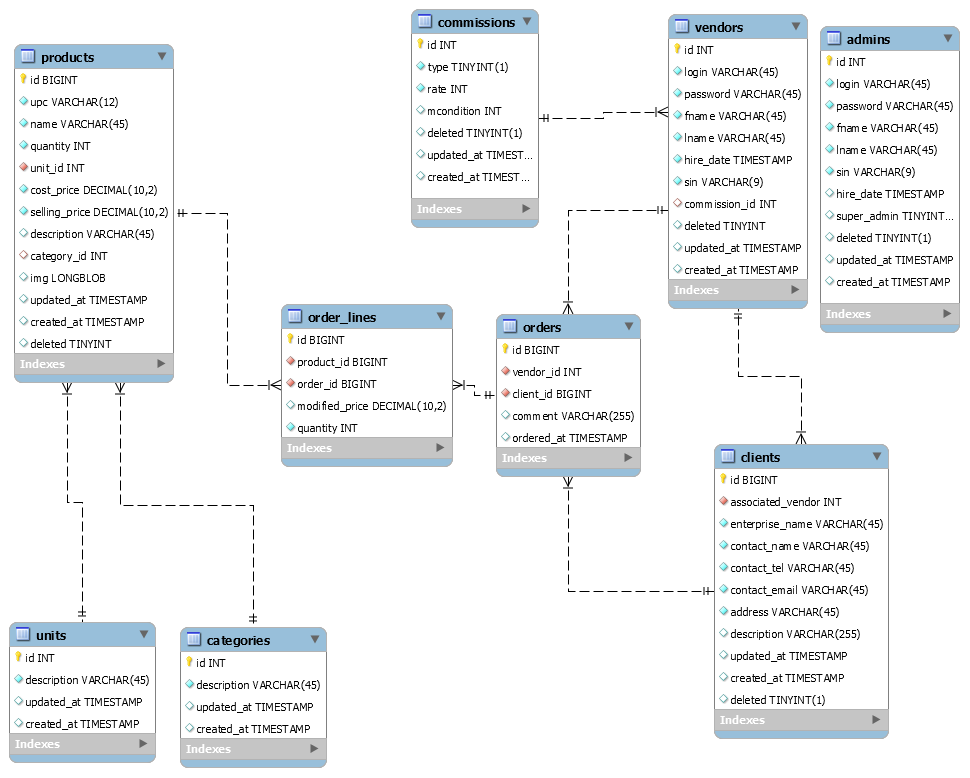
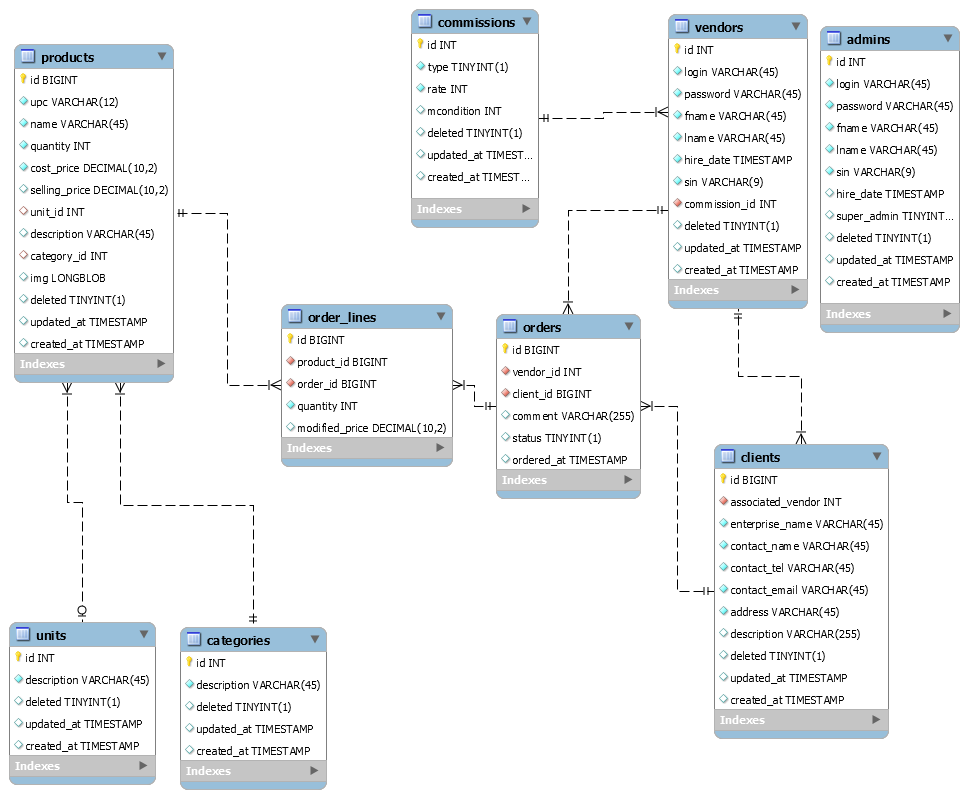
Modified db due to new client demands!

diff --git a/src/com/devsolutions/camelus/mappers/OrderMapper.java b/src/com/devsolutions/camelus/mappers/OrderMapper.java
@@ -5,6 +5,7 @@ import java.util.List;
 import org.apache.ibatis.annotations.Insert;
 import org.apache.ibatis.annotations.Options;
 import org.apache.ibatis.annotations.Select;
+import org.apache.ibatis.annotations.Update;
 
 import com.devsolutions.camelus.entities.Order;
 import com.devsolutions.camelus.entities.OrderTV;
@@ -14,17 +15,12 @@ public interface OrderMapper {
 	@Select("SELECT * FROM orders")
 	List<Order> getAll();
 
-	/*
-	 * @Select("SELECT * FROM orders WHERE vendor_id = #{vendor_id}")
-	 * List<Order> getByVendorId(int vendor_id);
-	 */
-
 	@Select("SELECT orders.id, client_id, associated_vendor, commission_id, fname, lname, enterprise_name, comment, ordered_at "
 			+ "FROM vendors INNER JOIN orders ON  vendors.id = orders.vendor_id"
 			+ "     INNER JOIN clients ON orders.client_id = clients.id"
 			+ " WHERE vendor_id = #{vendor_id}")
 	List<OrderTV> getByVendorId(int vendor_id);
-	
+
 	@Select("SELECT orders.id, client_id, associated_vendor, commission_id, fname, lname, enterprise_name, comment, ordered_at "
 			+ "FROM vendors INNER JOIN orders ON  vendors.id = orders.vendor_id"
 			+ "     INNER JOIN clients ON orders.client_id = clients.id")
@@ -39,4 +35,8 @@ public interface OrderMapper {
 	@Insert("INSERT INTO orders (vendor_id,client_id,comment) VALUES (#{vendor_id},#{client_id},#{comment})")
 	@Options(useGeneratedKeys = true, keyColumn = "id", keyProperty = "id", flushCache = true)
 	void add(Order order);
+
+	@Update("UPDATE orders SET status = 1 WHERE id = #{id}")
+	@Options(flushCache = true)
+	void cancel(long id);
 }

diff --git a/src/com/devsolutions/camelus/mappers/CategoryMapper.java b/src/com/devsolutions/camelus/mappers/CategoryMapper.java
@@ -5,18 +5,23 @@ import java.util.List;
 import org.apache.ibatis.annotations.Insert;
 import org.apache.ibatis.annotations.Options;
 import org.apache.ibatis.annotations.Select;
+import org.apache.ibatis.annotations.Update;
 
 import com.devsolutions.camelus.entities.Category;
 
 public interface CategoryMapper {
 
-	@Select("SELECT * FROM categories")
+	@Select("SELECT * FROM categories WHERE deleted = 0")
 	List<Category> getAll();
 
-	@Select("SELECT * FROM categories WHERE id = #{id}")
+	@Select("SELECT * FROM categories WHERE id = #{id} AND  deleted = 0")
 	Category getById(int id);
 
 	@Insert("INSERT INTO categories (description) VALUE (#{description})")
 	@Options(flushCache = true)
 	void add(String description);
+
+	@Update("UPDATE categories SET deleted = 1 WHERE id = #{id}")
+	@Options(flushCache = true)
+	void delete(int id);
 }

diff --git a/src/com/devsolutions/camelus/mappers/CommissionMapper.java b/src/com/devsolutions/camelus/mappers/CommissionMapper.java
@@ -5,6 +5,7 @@ import java.util.List;
 import org.apache.ibatis.annotations.Insert;
 import org.apache.ibatis.annotations.Options;
 import org.apache.ibatis.annotations.Select;
+import org.apache.ibatis.annotations.Update;
 
 import com.devsolutions.camelus.entities.Commission;
 
@@ -14,10 +15,14 @@ public interface CommissionMapper {
 	@Options(flushCache = true)
 	void add(Commission commission);
 
-	@Select("SELECT * FROM commissions")
+	@Select("SELECT * FROM commissions WHERE deleted = 0")
 	List<Commission> getAll();
-	
-	@Select("SELECT * FROM commissions WHERE id = #{id}")
+
+	@Select("SELECT * FROM commissions WHERE id = #{id} AND deleted = 0")
 	Commission getById(int id);
+
+	@Update("UPDATE commissions SET deleted = 1 WHERE id = #{id}")
+	@Options(flushCache = true)
+	void delete(int id);
 
 }

diff --git a/src/com/devsolutions/camelus/mappers/UnitMapper.java b/src/com/devsolutions/camelus/mappers/UnitMapper.java
@@ -5,19 +5,24 @@ import java.util.List;
 import org.apache.ibatis.annotations.Insert;
 import org.apache.ibatis.annotations.Options;
 import org.apache.ibatis.annotations.Select;
+import org.apache.ibatis.annotations.Update;
 
 import com.devsolutions.camelus.entities.Unit;
 
 public interface UnitMapper {
 
-	@Select("SELECT * FROM units")
+	@Select("SELECT * FROM units WHERE deleted = 0")
 	List<Unit> getAll();
-	
-	@Select("SELECT * FROM units WHERE id = #{id}")
+
+	@Select("SELECT * FROM units WHERE id = #{id} AND deleted = 0")
 	Unit getById(int id);
 
 	@Insert("INSERT INTO units (description) VALUE (#{description})")
 	@Options(flushCache = true)
 	void add(String description);
+
+	@Update("UPDATE units SET deleted = 1 WHERE id = #{id}")
+	@Options(flushCache = true)
+	void delete(int id);
 
 }

diff --git a/src/com/devsolutions/camelus/managers/OrderManager.java b/src/com/devsolutions/camelus/managers/OrderManager.java
@@ -32,11 +32,10 @@ public class OrderManager {
 		session.close();
 		return orders;
 	}
-	
+
 	public static List<OrderTV> getAllTV() {
 		SqlSession session = DBConnection.getSqlSessionFactory().openSession();
-		List<OrderTV> orders = session.getMapper(OrderMapper.class)
-				.getAllTV();
+		List<OrderTV> orders = session.getMapper(OrderMapper.class).getAllTV();
 		session.close();
 		return orders;
 	}
@@ -54,5 +53,12 @@ public class OrderManager {
 		Order order = session.getMapper(OrderMapper.class).getById(id);
 		session.close();
 		return order;
+	}
+
+	public static void cancel(long id) {
+		SqlSession session = DBConnection.getSqlSessionFactory().openSession();
+		session.getMapper(OrderMapper.class).cancel(id);
+		session.commit();
+		session.close();
 	}
 }

diff --git a/src/com/devsolutions/camelus/managers/UnitManager.java b/src/com/devsolutions/camelus/managers/UnitManager.java
@@ -16,7 +16,7 @@ public class UnitManager {
 		session.close();
 		return units;
 	}
-	
+
 	public static Unit getById(int id) {
 		SqlSession session = DBConnection.getSqlSessionFactory().openSession();
 		Unit unit = session.getMapper(UnitMapper.class).getById(id);
@@ -27,6 +27,13 @@ public class UnitManager {
 	public static void add(String description) {
 		SqlSession session = DBConnection.getSqlSessionFactory().openSession();
 		session.getMapper(UnitMapper.class).add(description);
+		session.commit();
+		session.close();
+	}
+
+	public static void delete(int id) {
+		SqlSession session = DBConnection.getSqlSessionFactory().openSession();
+		session.getMapper(UnitMapper.class).delete(id);
 		session.commit();
 		session.close();
 	}

diff --git a/src/com/devsolutions/camelus/managers/CommissionManager.java b/src/com/devsolutions/camelus/managers/CommissionManager.java
@@ -24,13 +24,19 @@ public class CommissionManager {
 		session.close();
 		return commissions;
 	}
-	
+
 	public static Commission getById(int id) {
 		SqlSession session = DBConnection.getSqlSessionFactory().openSession();
-		Commission commission = session
-				.getMapper(CommissionMapper.class).getById(id);
+		Commission commission = session.getMapper(CommissionMapper.class)
+				.getById(id);
 		session.close();
 		return commission;
 	}
 
+	public static void delete(int id) {
+		SqlSession session = DBConnection.getSqlSessionFactory().openSession();
+		session.getMapper(CommissionMapper.class).delete(id);
+		session.commit();
+		session.close();
+	}
 }

diff --git a/src/com/devsolutions/camelus/entities/Category.java b/src/com/devsolutions/camelus/entities/Category.java
@@ -8,6 +8,7 @@ public class Category {
 	private String description;
 	private Date updated_at;
 	private Date created_at;
+	private int deleted;
 
 	public int getId() {
 		return id;
@@ -23,6 +24,14 @@ public class Category {
 
 	public void setDescription(String description) {
 		this.description = description;
+	}
+
+	public int getDeleted() {
+		return deleted;
+	}
+
+	public void setDeleted(int deleted) {
+		this.deleted = deleted;
 	}
 
 	public Date getUpdated_at() {

diff --git a/src/com/devsolutions/camelus/entities/Unit.java b/src/com/devsolutions/camelus/entities/Unit.java
@@ -7,6 +7,7 @@ public class Unit {
 	private String description;
 	private Date created_at;
 	private Date updated_at;
+	private int deleted;
 
 	public int getId() {
 		return id;
@@ -22,6 +23,14 @@ public class Unit {
 
 	public void setDescription(String description) {
 		this.description = description;
+	}
+
+	public int getDeleted() {
+		return deleted;
+	}
+
+	public void setDeleted(int deleted) {
+		this.deleted = deleted;
 	}
 
 	public Date getCreated_at() {

diff --git a/src/test/CategoryManagerTest.java b/src/test/CategoryManagerTest.java
@@ -24,11 +24,16 @@ public class CategoryManagerTest {
 		System.out.println(CategoryManager.getById(1).getDescription());
 	}
 
+	public void delete() {
+		CategoryManager.delete(1);
+	}
+
 	public static void main(String args[]) {
 		CategoryManagerTest categoryManagerTest = new CategoryManagerTest();
 		categoryManagerTest.add();
 		categoryManagerTest.getById();
 		categoryManagerTest.getAll();
+		categoryManagerTest.delete();
 	}
 
 }

diff --git a/src/test/CommissionManagerTest.java b/src/test/CommissionManagerTest.java
@@ -24,10 +24,15 @@ public class CommissionManagerTest {
 		}
 	}
 
+	public void delete() {
+		CommissionManager.delete(1);
+	}
+
 	public static void main(String[] args) {
 		CommissionManagerTest commissionManagerTest = new CommissionManagerTest();
 		commissionManagerTest.insert();
 		commissionManagerTest.getAll();
+		commissionManagerTest.delete();
 	}
 
 }

diff --git a/src/test/UnitManagerTest.java b/src/test/UnitManagerTest.java
@@ -20,10 +20,15 @@ public class UnitManagerTest {
 		}
 	}
 
+	public void delete() {
+		UnitManager.delete(1);
+	}
+
 	public static void main(String[] args) {
 		UnitManagerTest unitManagerTest = new UnitManagerTest();
 		unitManagerTest.insert();
 		unitManagerTest.getAll();
+		unitManagerTest.delete();
 
 	}
 
